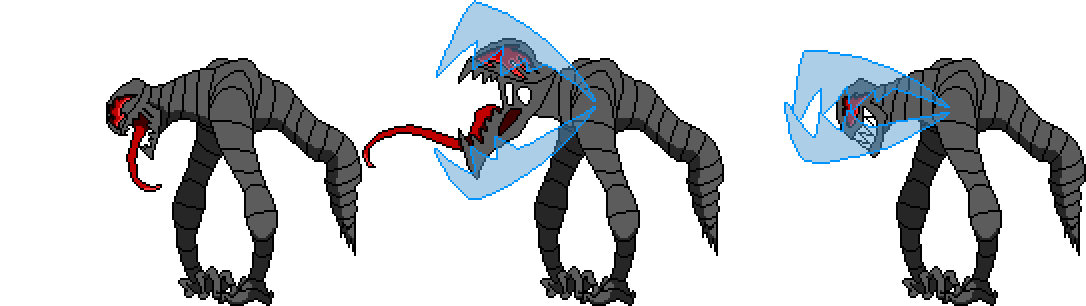
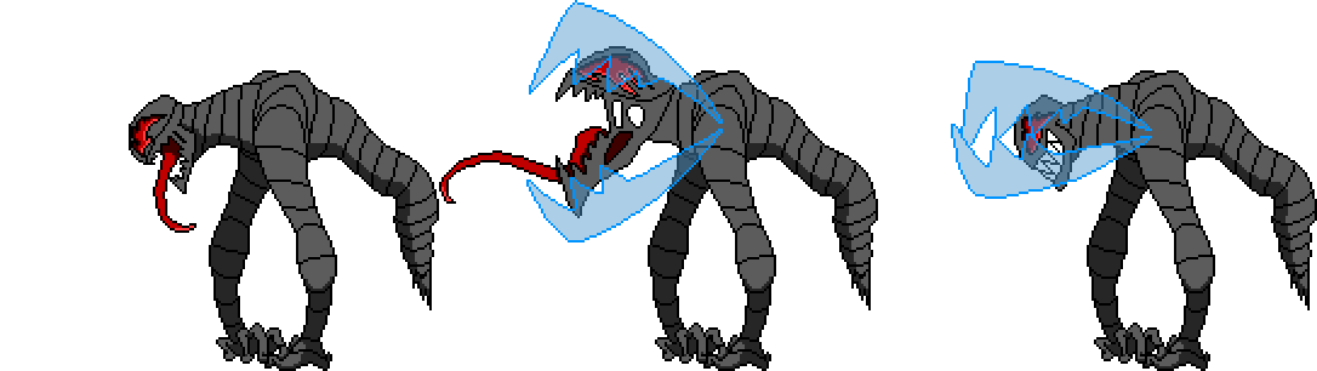
added monster animation for level 6 and 7

diff --git a/js/n3_play.js b/js/n3_play.js
@@ -618,7 +618,7 @@ let start5State = {
         playerSprite = game.add.sprite(185, 176, 'playerATK');
         pAnim = playerSprite.animations.add('pATK', [0,1,2,3,4,4,0], 10);
         pAnim.onComplete.add(transitioning, this);
-        Mon5 = game.add.sprite(513, 51, 'Mon5');
+        Mon5 = game.add.sprite(455, 12, 'Mon5');
         mon5Anim = Mon5.animations.add('mon5ATK', [0,1,2,2,0], 5);
         textBar = game.add.image(0, 318, 'textBar');
         btmLeft = game.add.image(0, 403, 'btmLeft');
@@ -707,7 +707,8 @@ let start6State = {
         playerSprite = game.add.sprite(185, 176, 'playerATK');
         pAnim = playerSprite.animations.add('pATK', [0,1,2,3,4,4,0], 10);
         pAnim.onComplete.add(transitioning, this);
-        Mon6 = game.add.image(522, 18, 'Mon6');
+        Mon6 = game.add.sprite(560, 130, 'Mon6');
+        mon6Anim = Mon6.animations.add('mon6ATK', [0,1,2,3,3,0], 5);
         textBar = game.add.image(0, 318, 'textBar');
         btmLeft = game.add.image(0, 403, 'btmLeft');
         btmRight = game.add.image(430, 403, 'btmRight');
@@ -765,16 +766,19 @@ function LV6mob(){
             clearInterval(monster6ATK);
         } else {
             if (playerLife == 3) {
+                Mon6.animations.play('mon6ATK');
                 playerLife--;
                 start6State.playerBar.setPercent((playerLife / 3)*100);
                 playerWidth = 146;
                 playerX = 256;
             } else if (playerLife == 2) {
+                Mon6.animations.play('mon6ATK');
                 playerLife--;
                 start6State.playerBar.setPercent(50);
                 playerWidth = 73;
                 playerX = 292.5;
             } else if(playerLife == 1) {
+                Mon6.animations.play('mon6ATK');
                 playerLife--;
                 start6State.playerBar.setPercent(0);
                 clearInterval(monster6ATK);
@@ -792,7 +796,8 @@ let start7State = {
         playerSprite = game.add.sprite(185, 176, 'playerATK');
         pAnim = playerSprite.animations.add('pATK', [0,1,2,3,4,4,0], 10);
         pAnim.onComplete.add(transitioning, this);
-        Mon7 = game.add.image(574, 208, 'Mon7');
+        Mon7 = game.add.sprite(110, 179, 'Mon7');
+        mon7Anim = Mon7.animations.add('mon7ATK', [0,1,1,2,2,2,0], 5);
         textBar = game.add.image(0, 318, 'textBar');
         btmLeft = game.add.image(0, 403, 'btmLeft');
         btmRight = game.add.image(430, 403, 'btmRight');
@@ -850,16 +855,19 @@ function LV7mob(){
             clearInterval(monster7ATK);
         } else {
             if (playerLife == 3) {
+                Mon7.animations.play('mon7ATK');
                 playerLife--;
                 start7State.playerBar.setPercent((playerLife / 3)*100);
                 playerWidth = 146;
                 playerX = 256;
             } else if (playerLife == 2) {
+                Mon7.animations.play('mon7ATK');
                 playerLife--;
                 start7State.playerBar.setPercent(50);
                 playerWidth = 73;
                 playerX = 292.5;
             } else if(playerLife == 1) {
+                Mon7.animations.play('mon7ATK');
                 playerLife--;
                 start7State.playerBar.setPercent(0);
                 clearInterval(monster7ATK);

diff --git a/js/n0_preload.js b/js/n0_preload.js
@@ -190,9 +190,9 @@ let preloadState = {
         game.load.spritesheet('Mon2', 'js/media/2Mon.png', 558, 386, 5);
         game.load.spritesheet('Mon3', 'js/media/3Mon.png', 579, 312, 5);
         game.load.spritesheet('Mon4', 'js/media/4Mon.png', 314, 256, 4);
-        game.load.spritesheet('Mon5', 'js/media/5Mon.png', 362, 306, 3);
-        game.load.image('Mon6', 'js/media/6Mon.png');
-        game.load.image('Mon7', 'js/media/7Mon.png');
+        game.load.spritesheet('Mon5', 'js/media/5Mon.png', 439, 371, 3);
+        game.load.spritesheet('Mon6', 'js/media/6Mon.png', 200, 250, 4);
+        game.load.spritesheet('Mon7', 'js/media/7Mon.png', 631, 170, 3);
         game.load.spritesheet('Mon8', 'js/media/8Mon.png', 659, 354, 4);
         game.load.image('playerSprite', 'js/media/player.png');
         game.load.spritesheet('playerATK', 'js/media/playerATK.png', 299, 186, 5);
